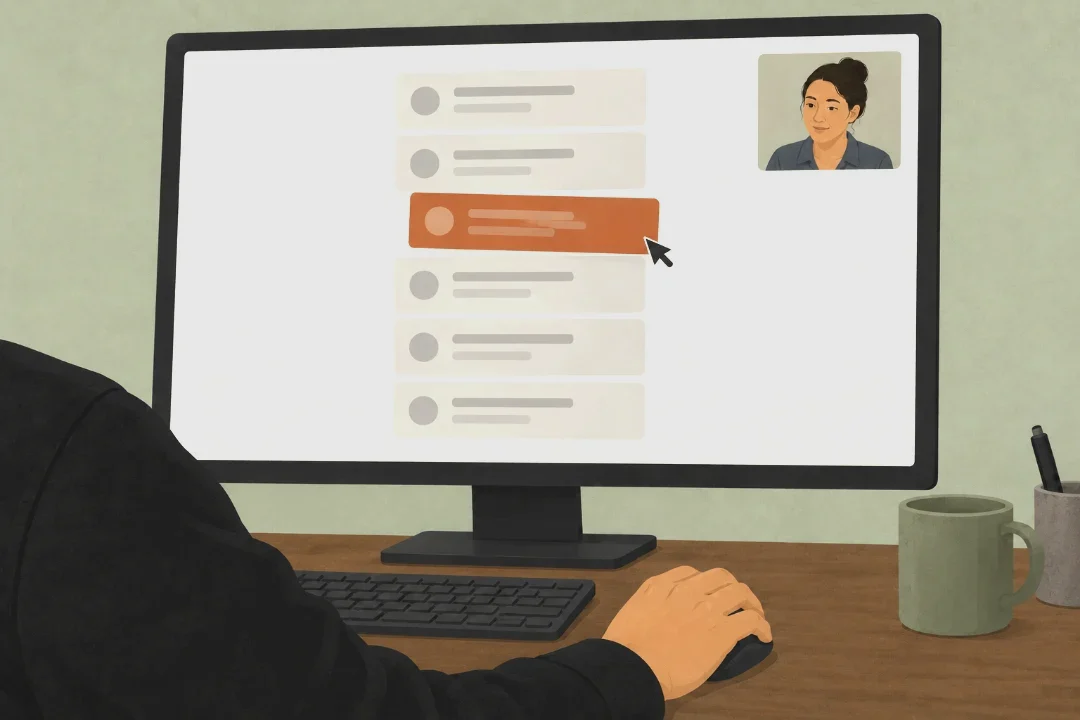
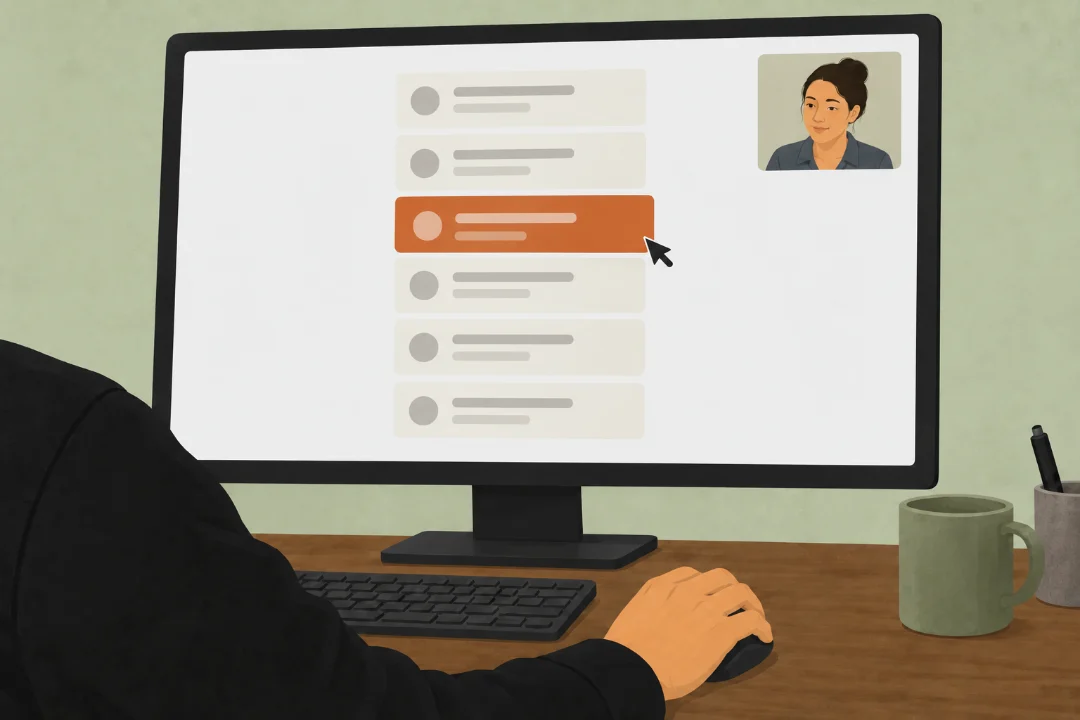
Product Clarity's third step drawing is redrawn
Asset swap under the carve-out: the file and the cache-buster only.
The new drawing went through illustrate.mjs step at --brightness 0.97,
which puts its sage wall at 8.09:1 against charcoal, level with the
page's hero at 8.06 and the file it replaces at 8.17; the flat 1.15
lift had left it at 11.7. The wall and grain passes refuse this
composition, as they did the old file, because the monitor fills the
top eighth. Mean luminance 151.0, in the band.

resting.mjs and states.mjs on the page: 98 and 53/67 before and after.

Changed region(s): [[0.3667, 0.2444, 0.6111, 0.3667], [0.7333, 0.1222, 0.7639, 0.1528]]

diff --git a/engagement/product-clarity.html b/engagement/product-clarity.html
@@ -473,7 +473,7 @@
               </div>
             </div>
             <figure class="eng3-step-fig is-art">
-              <img src="../img/engagement/step-clarity-03.webp?v=10" width="1080" height="720" loading="lazy" decoding="async" alt="Over a shoulder at a monitor: a column of six cards with one pulled out of line under the cursor, a hand on the mouse, a teammate in a small call thumbnail." />
+              <img src="../img/engagement/step-clarity-03.webp?v=11" width="1080" height="720" loading="lazy" decoding="async" alt="Over a shoulder at a monitor: a column of six cards with one pulled out of line under the cursor, a hand on the mouse, a teammate in a small call thumbnail." />
             </figure>
           </li>
           <li class="eng3-step has-fig">
